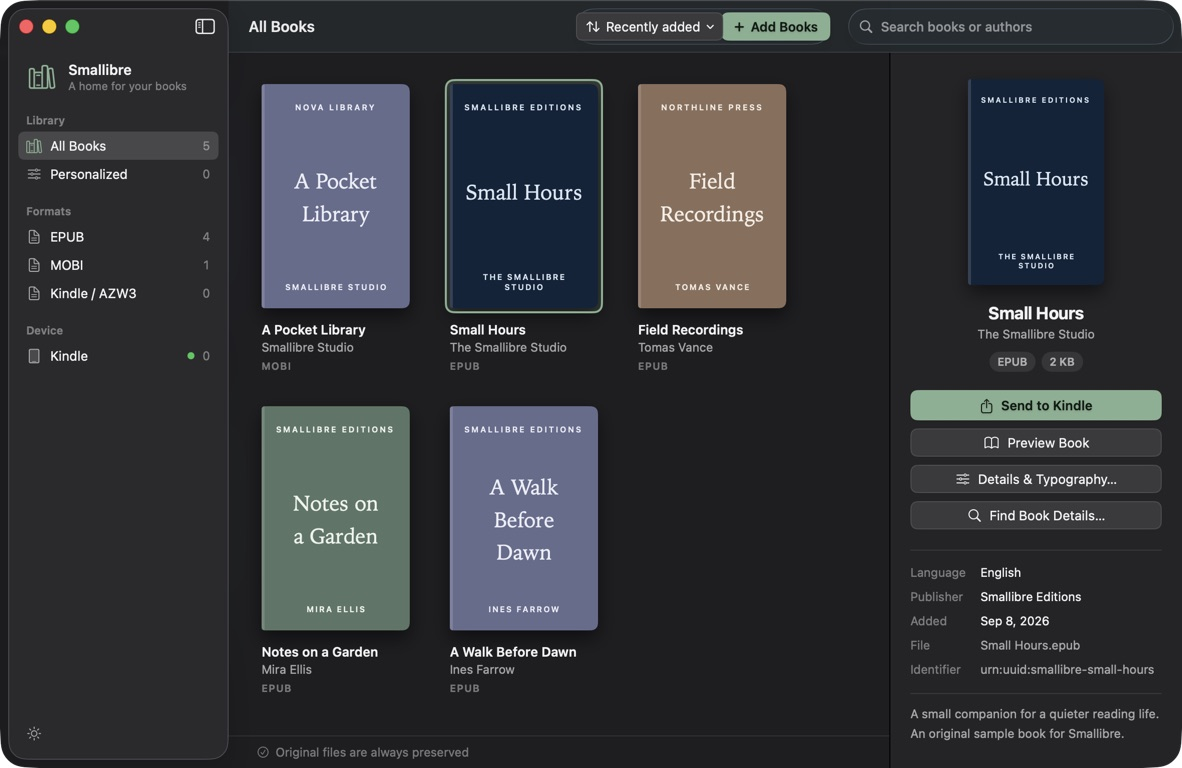
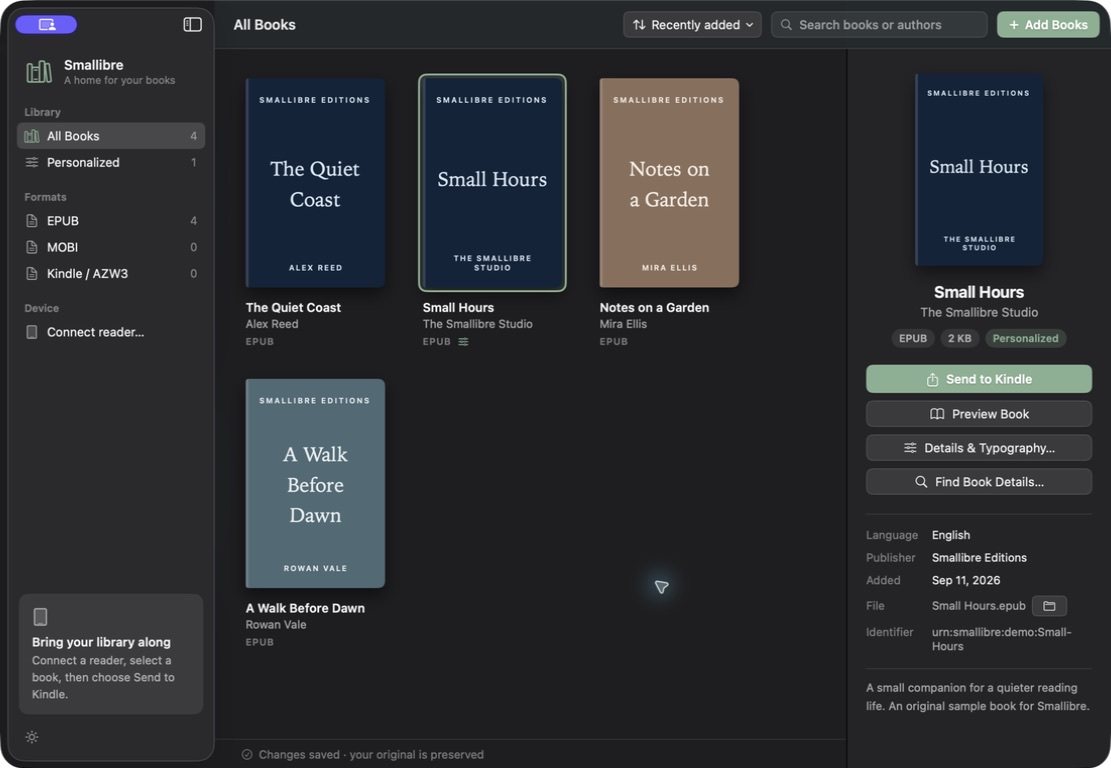
docs: refresh README benefits, screenshots, and app size comparison

diff --git a/README.md b/README.md
@@ -4,58 +4,107 @@
 
 **Your books. Your Mac. Your reader.**
 
-A small, native macOS app for organizing ebooks and taking them with you.
+A small, native macOS ebook manager for a simpler reading routine.
 
-macOS 14+ · Swift · GPL-3.0
+macOS 14+ · Apple Silicon · Free & open source
+
+[Install](#-install) · [Reader compatibility](#reader-compatibility) · [Contribute](CONTRIBUTING.md)
 
 </div>
 
-Smallibre brings your ebook library and your connected reader into one place. Add books, tidy their details, adjust EPUB typography, and manage the books on a mounted Kindle—all through a native Mac interface.
+Bring your ebooks together, make them comfortable to read, and take them to your Kindle. **Smallibre focuses on the everyday essentials:** a tidy library, useful book details, EPUB personalization, and reliable reader transfers.
 
-Inspired by Calibre, Smallibre takes a deliberately smaller scope with a custom Swift book engine. The current Apple Silicon app is approximately **8.4 MB**. No Calibre installation or additional runtime is needed.
+![Smallibre in dark mode with four fictional books and the Small Hours details panel](docs/screenshots/library.jpg)
 
-> **Version 0.4.1** refines the redesigned native interface with readable dark-mode buttons, an inline reader-folder selector, and a Finder shortcut beside each library file. Version 0.4.0 introduced the first non-prerelease, light and dark appearance, publication dates, and automatic discovery of an already-mounted Kindle. It includes one-click mounted-Kindle sending, native EPUB-to-AZW3 conversion, font fallback, and local Kindle export. MTP remains at the read-only diagnostic stage. Builds are locally ad-hoc signed, not Developer ID signed or notarized.
+<table>
+  <tr>
+    <td width="33%" align="center" valign="top"><a href="docs/screenshots/preview.jpg"><img src="docs/screenshots/preview.jpg" alt="Preview a chapter of the authored Small Hours demo book" width="100%"></a><br><b>Preview chapters</b></td>
+    <td width="33%" align="center" valign="top"><a href="docs/screenshots/typography.jpg"><img src="docs/screenshots/typography.jpg" alt="Personalize Small Hours with serif text, line spacing, and margins" width="100%"></a><br><b>Make reading yours</b></td>
+    <td width="33%" align="center" valign="top"><a href="docs/screenshots/conversion.jpg"><img src="docs/screenshots/conversion.jpg" alt="A prepared Kindle AZW3 copy of Small Hours with conversion notes" width="100%"></a><br><b>Prepare a Kindle copy</b></td>
+  </tr>
+</table>
 
-## What you can do
+*Actual app screenshots using a disposable library of authored mock books. Click a detail image to enlarge it.*
 
-- **Build your bookshelf.** Import EPUB, MOBI, and standalone AZW3 books. Browse covers, search, and sort your library by title, author, recently added, or format. Identical files are detected automatically. The window follows your Mac's appearance, and the button at the foot of the sidebar switches between light and dark; right-click it to go back to following the system.
-- **Make books yours.** Edit book details, review suggestions from Open Library, and adjust fonts, spacing, and margins in reflowable EPUBs. The inspector shows language, publisher, the publication date the book declares, when you added it, and its original filename. The folder icon beside File reveals the preserved original in Finder.
-- **Send EPUBs to Kindle.** Click **Send to Kindle** to detect a mounted Kindle, convert the EPUB, and send a verified copy. After sending, the device list and the **· ON KINDLE** badge update automatically; the default recent sort shows newly sent books first, and books already on the device show a disabled **On Kindle** button. Folder selection is only needed if automatic detection fails; the fallback also supports EPUB readers. Use **Export File…** (⌘E, or the book's context menu) to choose a file format and destination folder. EPUB books can be exported as EPUB or Kindle AZW3; MOBI/AZW3 books retain their original format. Supported EPUBs keep saved metadata and typography changes.
-- **Take a look inside.** Preview EPUB chapters before exporting a new copy.
-- **See what’s on your Kindle.** Browse a mounted reader, see matches with your Mac library, and inspect device-only books. The Kindle view shows the reader's folder, with an edit icon to choose or change it. When the volume reports capacity, it also shows how much storage is used. The toolbar sorts device books by title, author, format, or recently added (file creation date, falling back to modification date). When metadata is unavailable, including for KFX files, the details panel shows the filename, format, size, and device path.
-- **Manage device copies.** Download supported books, back up files, or delete selected copies after a verified local backup. Update title, author, and publisher on supported DRM-free MOBI/AZW3 device files.
+## Why Smallibre?
 
-## Screenshots
+- **📚 A bookshelf that feels at home on your Mac.** Browse covers, search titles and authors, and sort your EPUB, MOBI, and standalone AZW3 books. Light and dark appearances are built in.
+- **✍ Better details, more comfortable pages.** Edit metadata, review optional Open Library suggestions, and adjust EPUB fonts, spacing, and margins. Preview chapters before exporting.
+- **📖 From EPUB to Kindle.** Choose **Send to Kindle** to convert a supported EPUB and transfer a verified copy to a mounted Kindle. Prefer a file? **Export File…** offers EPUB or Kindle AZW3.
+- **🔌 Manage the books on your reader.** Browse a mounted device, see which books match your library, download copies, and back up files. Supported device edits and deletions require a verified local backup.
+- **🪶 Small by design.** Written in Swift with a custom book engine. No Calibre installation or additional runtime is needed.
 
-Browse your library and inspect book details.
+## Small app, small footprint
 
-![Smallibre library showing five demo books and the selected book’s details](docs/screenshots/library.jpg)
+Smallibre aims to keep the download and installation light. For the versions measured below, it is **about 99% smaller** than Calibre in both categories. Calibre offers a much broader toolkit; Smallibre deliberately focuses on a smaller set of macOS reading tasks.
 
-Preview EPUB chapters before exporting.
+![App size comparison in decimal MB: Smallibre downloads at 3.2 MB and installs at 8.8 MB; Calibre downloads at 344.4 MB and installs at 1153.3 MB](docs/screenshots/app-size.svg)
 
-![Smallibre EPUB preview showing the authored Small Hours sample](docs/screenshots/preview.jpg)
+| App | Download through Homebrew | Installed app |
+| --- | ---: | ---: |
+| **Smallibre 0.4.1** | **3.2 MB** | **8.8 MB** |
+| Calibre 9.14.0 | 344.4 MB | 1,153.3 MB |
 
-Adjust book details, body typography, line spacing, and margins.
+*Measured September 11, 2026; decimal MB. Downloads are the ZIP/DMG used by the casks; installed sizes count app-bundle file bytes, excluding book libraries and caches. Smallibre is arm64; Calibre is a universal Intel/Apple Silicon bundle. [Sources and measurement details](docs/app-size-comparison.md).*
 
-![Smallibre details and typography editor](docs/screenshots/typography.jpg)
+## 🚀 Install
 
-*Captured from the macOS app using a disposable library of authored demo books.*
-
-## Install
-
-Requires **Apple Silicon and macOS 14 or later**:
+Requires **Apple Silicon and macOS 14 or later**.
 
 ```sh
 brew install --cask tajchert/tap/smallibre
 ```
 
-Or download the app from [GitHub Releases](https://github.com/tajchert/smallibre/releases). The app is not notarized. If macOS blocks the first launch, use **System Settings → Privacy & Security → Open Anyway** after reviewing the app ([Apple’s guidance](https://support.apple.com/en-us/102445)).
+Or download from [GitHub Releases](https://github.com/tajchert/smallibre/releases).
 
-## Build from source
+**First launch:** the app is ad-hoc signed and not notarized. If macOS blocks it, review the app and choose **System Settings → Privacy & Security → Open Anyway** ([Apple’s guidance](https://support.apple.com/en-us/102445)).
 
-You need macOS 14 or later and an Xcode toolchain with Swift 6.
+### Your first book
 
-From the project folder:
+1. Open Smallibre and choose **Explore with a sample book**, or drop in your own ebooks.
+2. Select a book to preview it or open **Details & Typography…**.
+3. Connect a mounted Kindle and choose **Send to Kindle**, or press **⌘E** to export a file.
+
+To update an existing Homebrew installation:
+
+```sh
+brew update
+brew upgrade --cask smallibre
+```
+
+## Reader compatibility
+
+**Your reader must appear as a mounted drive or folder on your Mac.** Smallibre detects mounted Kindles automatically, with a folder picker as a fallback. The mounted workflow has been tested on a Kindle Paperwhite (11th generation); other models still need coverage.
+
+| Book or connection | What works today |
+| --- | --- |
+| Reflowable EPUB | Import, preview, edit metadata and typography, export EPUB |
+| Supported EPUB → Kindle AZW3 | Native conversion, conversion notes, local export, mounted-Kindle sending |
+| DRM-free MOBI / standalone AZW3 | Import and export original bytes; metadata updates on supported device copies |
+| Mounted USB reader | Browse, transfer, download, back up, and delete selected copies |
+| MTP reader | No app connection or transfers yet |
+| DRM-protected books / KFX | Limited device listing; no decryption, import, or editing |
+
+**Conversion is focused on ordinary reflowable books.** Complex layouts, SVG/MathML, scripts, and media overlays are unsupported. Custom fonts fall back to reader fonts. Review the [conversion limitations](docs/epub-kindle-limitations.md) and check the result on your reader.
+
+There is no automatic mirroring. If a transfer is interrupted, check **Backups & history** and refresh the reader before retrying; cancellation does not prove that nothing was written.
+
+## Where the project is going
+
+The goal is a **focused native Mac companion for your ebooks**, with quick local import, restrained personalization, and dependable transfers.
+
+Next priorities:
+
+- Broader EPUB conversion compatibility and more testing on real readers.
+- Reliable MTP connections and transfers.
+- More library-management tools and measured large-library performance.
+- Developer ID signed, notarized downloads and release automation.
+
+## Build & contribute
+
+Bug reports, reader compatibility reports, and focused fixes are welcome. Start with [Contributing](CONTRIBUTING.md).
+
+To build locally, use macOS 14+ and an Xcode toolchain with Swift 6:
 
 ```sh
 swift test
@@ -63,74 +112,26 @@ bash scripts/build-app.sh
 open build/Smallibre.app
 ```
 
-Choose **Explore with a sample book**, or drop your own EPUB or MOBI into the window. Select a book to see its details, personalize an EPUB, or prepare an export.
+The build targets your Mac’s architecture and signs the app locally. You can also open `Package.swift` in Xcode.
 
-The build script creates an app for your Mac’s architecture and signs it locally. It does not create a universal or notarized release. You can also open `Package.swift` in Xcode to work on the project.
-
-## Keyboard shortcuts
-
-Shortcuts are listed in the app’s native menus and apply to the active library window.
+<details>
+<summary><b>Handy keyboard shortcuts</b></summary>
 
 | Shortcut | Action |
 | --- | --- |
-| ⌘K | Search all library books, leaving the current filter or reader view |
-| ⌘F | Search the current collection or reader |
-| ⌘1–⌘6 | All Books, Personalized, EPUB, MOBI, Kindle / AZW3, Kindle Reader |
 | ⌘O | Add books |
+| ⌘K / ⌘F | Search all books / the current collection |
 | ⌘R | Preview the selected EPUB |
 | ⌘I | Edit the selected book’s details |
-| ⌘E | Export file (format and location) |
-| ⇧⌘F | Show the selected original in Finder |
-| ⇧⌘R | Refresh the connected reader when idle |
+| ⌘E | Export a file |
+| ⇧⌘F | Reveal the original in Finder |
+| ⇧⌘R | Refresh the reader |
+| ⌘1–⌘6 | Switch library collections and reader view |
 
-Search matches titles and authors. Book commands require a selection visible in the current library collection.
+Book commands require a selected book. The app’s native menus list all shortcuts.
 
-In the Sort menu, select the active option again to toggle ascending or descending order. This works in both the library and Kindle views; the active option shows a checkmark and its direction. Choosing a different sort starts with newest first for Recently added or A–Z for Title, Author and Format.
+</details>
 
-## Will it work with my reader?
+For deeper technical context, see [development guidance](AGENTS.md), the [EPUB-to-Kindle workflow](docs/architecture/epub-kindle-workflow.md), [reader reliability](docs/architecture/reader-reliability.md), and [MTP status](docs/handoffs/mtp-readers.md).
 
-Smallibre currently works with readers that appear as a mounted drive or folder on your Mac. Kindle Paperwhite testing has covered inventory, transfer, download, backup, deletion of a disposable copy, and metadata updates. Reading the test copy was confirmed on the device; other models and books still need testing.
-
-| Book or connection | Current support |
-| --- | --- |
-| Reflowable EPUB | Import, preview, edit details and typography, export EPUB |
-| DRM-free MOBI / standalone AZW3 | Import and export; supported device copies allow metadata updates |
-| EPUB → Kindle format | Native AZW3 preparation, automatic mounted-Kindle send, conversion notes and local export |
-| Mounted USB reader | Inventory and explicit transfer/management actions |
-| MTP reader | Developer read-only probe; no app connection or transfer support |
-| DRM-protected books / KFX | Limited device listing; no decryption, import, or editing |
-
-Library metadata edits are embedded in EPUB exports. MOBI/AZW3 exports from the library preserve original bytes; editing device metadata is a separate action. Smallibre does not automatically mirror or delete books when you connect a reader. Reader helpers run only for individual operations, without periodic polling. Unrelated volume mounts do not trigger scans. System sleep cancels reader work and invalidates device selections; after waking, refresh explicitly and check Backups & history before retrying an interrupted write. Cancellation does not prove a write failed, and interrupted writes are never automatically replayed.
-
-Fixed-layout EPUBs, scripted books, media overlays, embedded-font customization, and broad format conversion are outside the current scope. Large-library performance has not yet been established.
-
-## Conversion and MTP development status
-
-Native conversion now prepares immutable AZW3 artifacts with source, settings, converter-version and output hashes. A send uses the exact prepared artifact, creates a new device file, verifies a full readback and retains a backup and receipt. Corrupt cached files are rejected; interrupted writes are never retried automatically.
-
-The supported profile is deliberately bounded: reflowable EPUB 2/3, ordinary prose and lists, internal links, PNG/JPEG images, cover metadata, and basic inline/linked CSS. Nested navigation is flattened with a conversion note. DRM, SVG/MathML, scripts, media overlays, remote resources and CSS imports are rejected. Version 0.3.0 adds font fallback for embedded and recognized obfuscated fonts, plus simple page-margin normalization. See the [known limitations and missing features](docs/epub-kindle-limitations.md) before relying on conversion for complex books.
-
-Earlier authored native books were read on a **Kindle Paperwhite (11th generation), firmware 5.19.2**, establishing the fragment-selector and document-UUID fixes. The expanded conversion profile still needs on-device rendering coverage; automated structure and transfer verification are not a readability certification. See the [conversion handoff](docs/handoffs/epub-to-kindle.md) and [hardware evidence](docs/architecture/azw3-format-evidence.md).
-
-MTP work includes protocol/transport foundations and a bounded read-only USB probe. Discovery integration and reliable MTP downloads, uploads, and deletion are not delivered. The tested Paperwhite used mounted USB storage, so those tests do not certify MTP. See the [MTP handoff](docs/handoffs/mtp-readers.md).
-
-## Your files stay yours
-
-Smallibre keeps a private original of each imported book. Edits and exports leave that original intact. Device deletion and metadata updates first save a verified local backup; backups are accessible through **Backups & history**.
-
-Your library lives in `~/Library/Application Support/Smallibre/`. Quit the app before backing up that whole folder. Earlier Calibre Nova libraries migrate automatically, with a compatibility link for existing backup paths; quit the old app first.
-
-Metadata search is optional: it sends the title and author query to Open Library when requested. EPUB previews block network access.
-
-## What’s next
-
-- Broader book compatibility and more library-management tools.
-- Broaden native EPUB-to-AZW3 compatibility and hardware coverage; MOBI-to-EPUB remains future work.
-- Turn the MTP foundations into reliable reader connections and transfers, with hardware coverage.
-- Signed, notarized downloads and release automation.
-
-## Help shape Smallibre
-
-Bug reports, small fixes, and compatibility reports are welcome. Start with [Contributing](CONTRIBUTING.md). For architecture, development conventions, and test guidance, see [AGENTS.md](AGENTS.md).
-
-Smallibre is licensed under [GPL-3.0-only](LICENSE). Its engine is a custom implementation; no Calibre code is bundled. The included “Small Hours” sample and synthetic test fixtures were authored for this project.
+Licensed under **[GPL-3.0-only](LICENSE)**. No Calibre code is bundled. The included “Small Hours” sample and test fixtures were authored for this project.

diff --git a/docs/app-size-comparison.md b/docs/app-size-comparison.md
@@ -1,0 +1,43 @@
+# App size comparison
+
+Measured on September 11, 2026 for the README. These are release-specific measurements, not a performance benchmark or a comparison of equivalent feature sets.
+
+| Measurement | Smallibre 0.4.1 | Calibre 9.14.0 |
+| --- | ---: | ---: |
+| Homebrew download, bytes | 3,232,227 | 344,439,358 |
+| Installed app files, bytes | 8,777,632 | 1,153,281,126 |
+| Main executable architecture | arm64 | x86_64 + arm64 |
+
+## Sources
+
+`brew info --cask --json=v2 calibre tajchert/tap/smallibre` identified the versions and download URLs:
+
+- [Smallibre Homebrew cask](https://github.com/tajchert/homebrew-tap/blob/main/Casks/smallibre.rb): [0.4.1 release ZIP](https://github.com/tajchert/smallibre/releases/download/v0.4.1/Smallibre-0.4.1-macos-arm64.zip).
+- [Calibre Homebrew cask](https://formulae.brew.sh/cask/calibre): [9.14.0 release DMG](https://download.calibre-ebook.com/9.14.0/calibre-9.14.0.dmg).
+
[1 lines of base64/hex data omitted]
+
+The official Calibre DMG returned `Content-Length: 344439358` in an HTTP HEAD response. The download button on [Calibre’s macOS download page](https://calibre-ebook.com/download_osx) was also checked: it redirects through `https://calibre-ebook.com/dist/osx` to the GitHub 9.14.0 DMG, which returned the same `Content-Length: 344439358`. The website and Homebrew downloads therefore have the same measured size. Both installed versions were checked against their local app-bundle metadata. `lipo -archs` confirmed the executable architectures above.
+
+## Method
+
+Download means the compressed app archive fetched by Homebrew, excluding Homebrew itself and metadata. Installed means the sum of regular-file sizes within the installed `.app`, excluding symlinks so linked files are not counted twice. It excludes ebook libraries, conversion artifacts, backups, preferences, and caches. Disk allocation shown by `du` or Finder can differ.
+
+To reproduce the installed measurement:
+
+```python
+from pathlib import Path
+
+for name in ("Smallibre", "calibre"):
+    bundle = Path("/Applications") / f"{name}.app"
+    size = sum(
+        path.stat().st_size
+        for path in bundle.rglob("*")
+        if path.is_file() and not path.is_symlink()
+    )
+    print(name, size, f"{size / 1_000_000:,.1f} MB")
+```
+
+The README uses decimal MB (1 MB = 1,000,000 bytes), rounded to one decimal place. Smallibre is 99.06% smaller by download and 99.24% smaller by installed file bytes in this snapshot. Calibre ships a universal bundle and a broader feature set; Smallibre ships an Apple Silicon bundle with a deliberately narrower scope.
+
+The chart uses separate, labeled linear scales for download and installed size. Exact values are also provided in the README table for accessibility.
